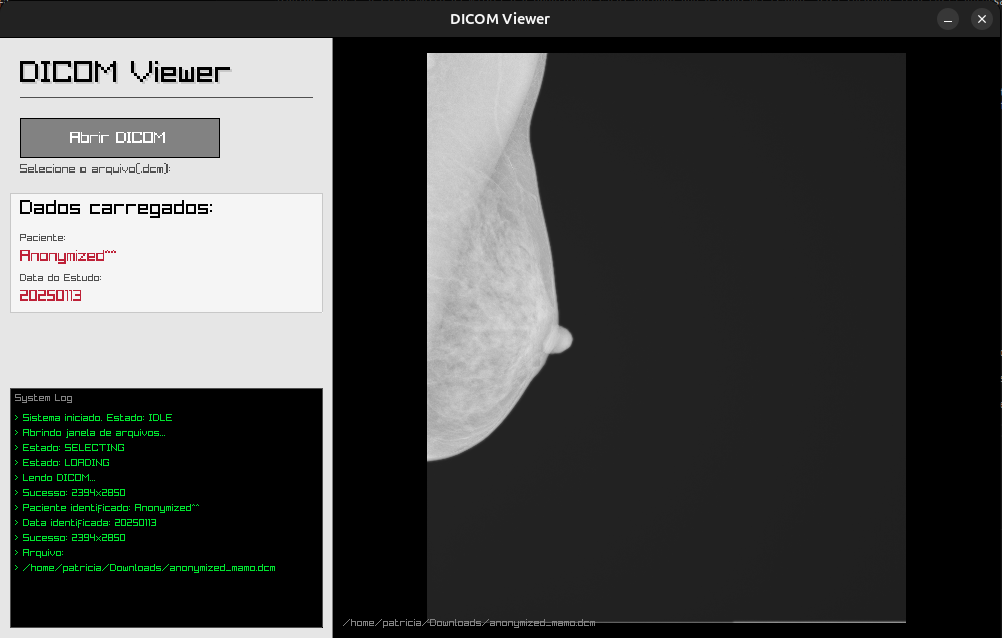
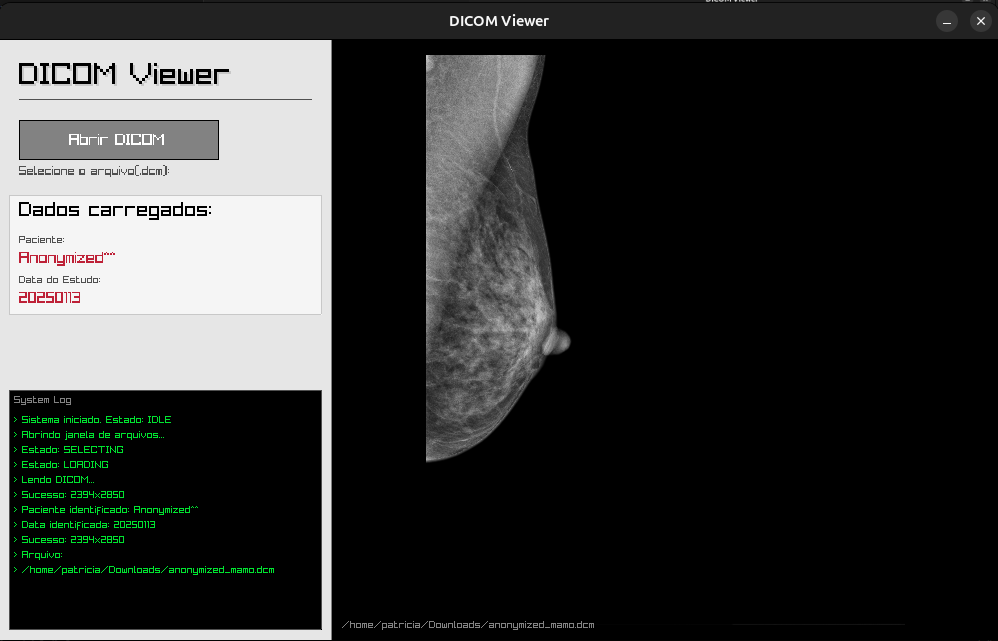
Last commit: improve image view

diff --git a/src/dicom_loader.cpp b/src/dicom_loader.cpp
@@ -56,8 +56,10 @@ bool DicomLoader::LoadPixelData(const std::string& path, DicomResult& result) {
         DJDecoderRegistration::cleanup();
         return false;
     }
-
-    dcm_image->setMinMaxWindow();
+    
+    if (!dcm_image->setWindow(0)) {
+        dcm_image->setHistogramWindow(0.02);
+    }
 
     unsigned long width = dcm_image->getWidth();
     unsigned long height = dcm_image->getHeight();

diff --git a/Documentation.md b/Documentation.md
@@ -23,7 +23,7 @@ Para desenvolver a visualização DICOM vou iniciar olhando para as bibliotecas 
 - O requisito "Window Level/Width" foi implementado como automático e nao como interativo
 - Para 'suporte a imagens RGB' eu adicionei o laço:
 
-            if (dcm_image->isMonochrome()) {
+        if (dcm_image->isMonochrome()) {
             result.image.format = PIXELFORMAT_UNCOMPRESSED_GRAYSCALE;
         } else {
             result.image.format = PIXELFORMAT_UNCOMPRESSED_R8G8B8;
@@ -39,4 +39,7 @@ mas não consegui testar o funcionamento
     A implementação da interface foi toda hardcodada e utilizando números mágicos, seria ideal separa-los e criar uma classe config_view
     Todo o codigo foi organizado em Google Style
     Não me preocupei em verificar se a "cascata" de includes para otimização de memória
+
+Obs: 
+    Atualização de última hora (20/01 - 10h): eu estava achando o contraste ruim, até que encontrei que com dcm_image->setWindow(0) eu consigo puxar a config de contraste que vem dentro do dicom
     

diff --git a/README.md b/README.md
@@ -63,3 +63,4 @@ The project supports Windows via CMake, but dependency management is manual. It 
 - **AI Assistance:** Generative AI tools were utilized during development for troubleshooting build errors, optimizing CMake configurations, and researching DCMTK integration nuances.
 - **Disclaimer:** The **Windows build instructions** provided in this document were generated by AI to assist cross-platform users and have **not been tested** in this development environment (which was strictly Linux-based).
 - **Assets:** Development and testing were primarily conducted using the sample file `/file/anonymized_mamo.dcm`.
+- **Development Process:** For a detailed breakdown of the development steps, challenges faced, and technical decisions, please refer to [Documentation.md](Documentation.md).
